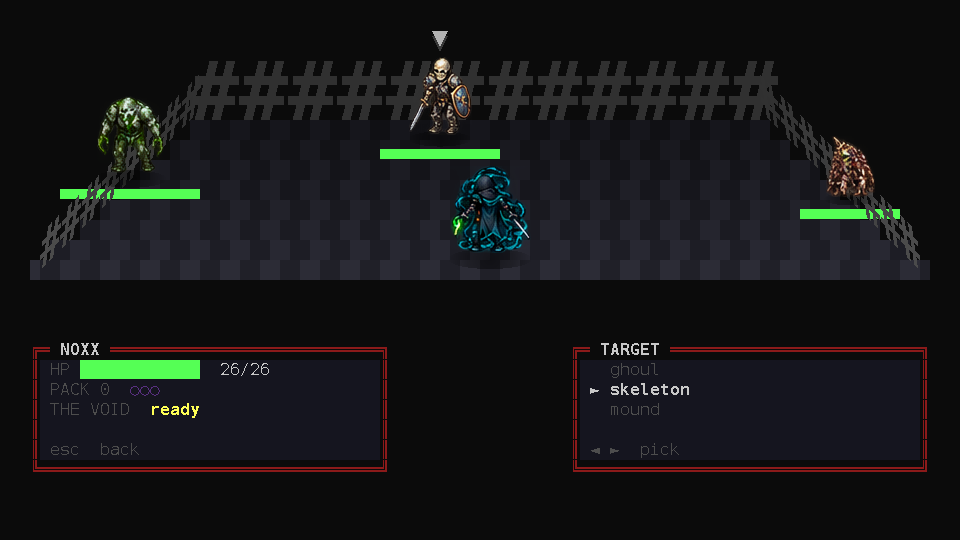
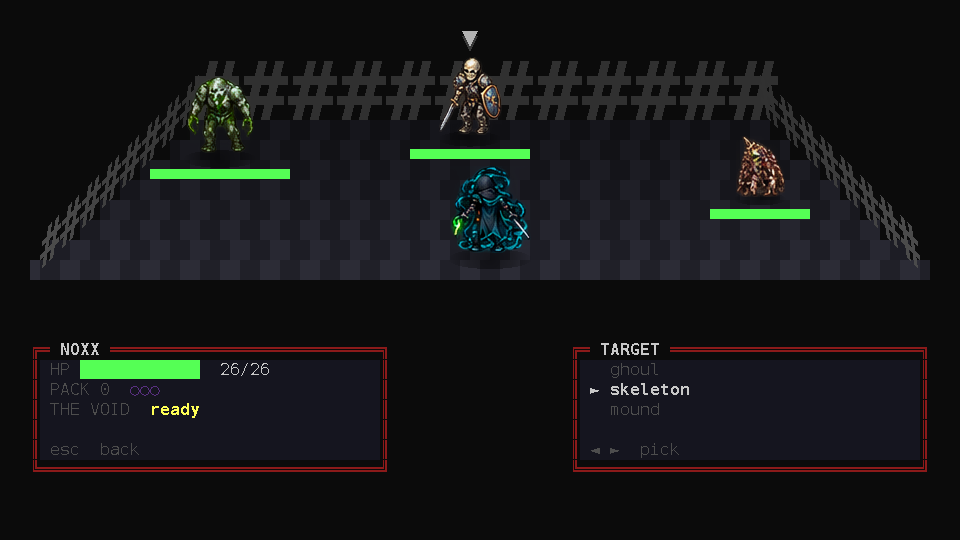
the row stands inside the room, and the arrow waits for a question
Two things the arena was doing wrong the moment it could be played.

**The target is picked once, when it is read.** Left and right at the command
panel were still moving the arrow on the floor -- a target chosen *before* the
trick, which the fight only reads when a trick is thrown at it. That is the
answer to a question nobody has been asked: the arrow now lives in the aim
and nowhere else, and the verb panel does not answer to it at all.

**Nothing stands at the rim.** The outer monsters were at four tenths of the
ground's width either side, which put the outer ones in the masonry with
their health bars running off the frame: the floor tapers, so the far
corners of it are wall, not floor. The arc is the same arc, pulled in --
three at ±0.30 and two at ±0.20 instead of ±0.40 and ±0.26 -- and the row is
now twice as wide as the hero instead of as wide as the room. The middle of
a crowd of three moved with it, to sit over the hero's shoulder rather than
behind his head.

docs/aiming.png is the new row.

diff --git a/src/neverdeads_revenge/desktop/screens/battle.py b/src/neverdeads_revenge/desktop/screens/battle.py
@@ -105,10 +105,15 @@ AIMED: tuple[str, ...] = (ATTACK, SPECIAL)
 #: middle of the room, two on either side of that middle, and three in the
 #: shallow arc the stage was drawn for, with the outer ones a little nearer, the
 #: way a line of anything stands.
+#:
+#: Nothing stands at the rim. The floor tapers, so the far corners of it are
+#: *wall* -- an outer monster at the very edge was standing in the masonry with
+#: its health bar running off the frame, and the row was as wide as the room
+#: instead of as wide as a row. The arc is the same shape, pulled in.
 ROWS: dict[int, tuple[tuple[float, float], ...]] = {
     1: ((0.0, 0.18),),
-    2: ((-0.26, 0.32), (0.26, 0.32)),
-    3: ((-0.40, 0.32), (-0.06, 0.14), (0.40, 0.48)),
+    2: ((-0.20, 0.30), (0.20, 0.30)),
+    3: ((-0.30, 0.30), (-0.02, 0.10), (0.30, 0.46)),
 }
 
 #: How big a letter stands, in font pixels. The hero is nearest and largest; the
@@ -1106,13 +1111,10 @@ class BattleScreen(Screen):
             # a player drumming on the keyboard would be choosing the next verb
             # for a blow they have not seen land yet.
             return True
-        living = self._targets()
-        if name in ("left", "h") and living:
-            self._walk(-1, app)
-            return True
-        if name in ("right", "l") and living:
-            self._walk(1, app)
-            return True
+        # No arrow here. A target is picked *after* the trick is picked, in the
+        # one place where the fight is going to read it: aiming at a monster
+        # before knowing what is being aimed would be choosing the answer to a
+        # question nobody has been asked yet.
         if name == "up":
             self.verb = (self.verb - 1) % len(VERBS)
             return True
@@ -1568,7 +1570,10 @@ class BattleScreen(Screen):
         width, height = int(field["cells_w"]), int(field["cells_h"])
         centre = x0 + width // 2
         living = self._targets()
-        marked = living[self.target % len(living)] if living else None
+        # The arrow is out only while something is being aimed: it marks the
+        # *question*, and there is no question on the floor until a trick has
+        # asked one.
+        marked = living[self.target % len(living)] if self.aiming and living else None
         scale = 1.35 if width >= 120 else 1.0
         monsters = self.battle.enemies[:STAGE]
         places = ROWS.get(len(monsters), ROWS[STAGE])
@@ -1788,12 +1793,12 @@ class BattleScreen(Screen):
 
         It hangs above the letter rather than beside it, because beside a letter
         is where the next monster is: an arrow that means "this one" has to point
-        at the one it means.
+        at the one it means. It only exists while something is being aimed -- it
+        marks the question, and there is no question until a trick has asked one.
 
-        While it is being *aimed*, it also breathes: the same figure rising and
-        falling, so the one the arrow is on is moving while all the others are
-        still. A marker that stands as still as everything under it is a marker a
-        player has to hunt for.
+        And it breathes, one pixel either way: the monster the arrow is on is
+        moving while all the others are still. A marker that stands as still as
+        everything under it is a marker a player has to hunt for.
         """
         font = letter_font(max(16, figure.size // 2))
         painter.setFont(font.bold)
@@ -1804,8 +1809,7 @@ class BattleScreen(Screen):
         else:
             top = QFontMetrics(letter_font(figure.size).bold).capHeight()
         baseline = figure.row * cell_h - THICKNESS - top - metrics.height() // 3
-        if self.aiming:
-            baseline -= round(math.sin(self._clock * 5.0) * 2) - 1
+        baseline -= round(math.sin(self._clock * 5.0) * 2) - 1
         left = figure.cx - metrics.horizontalAdvance(ARROW) // 2
         painter.setPen(ink.darker(320))
         painter.drawText(left, baseline + THICKNESS, ARROW)
